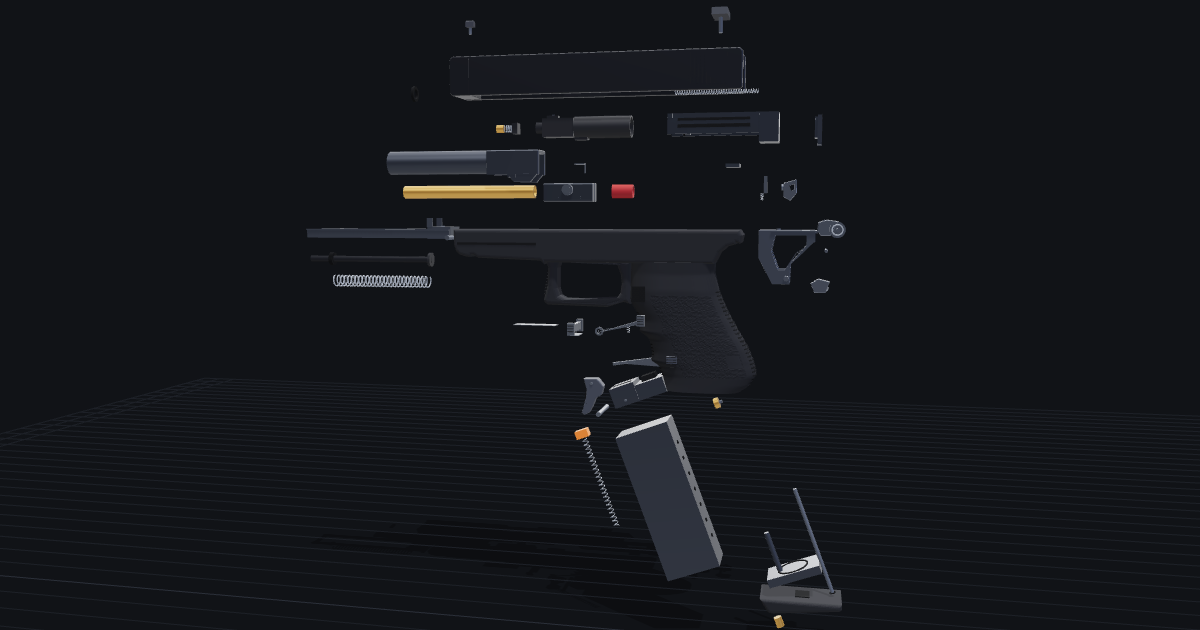
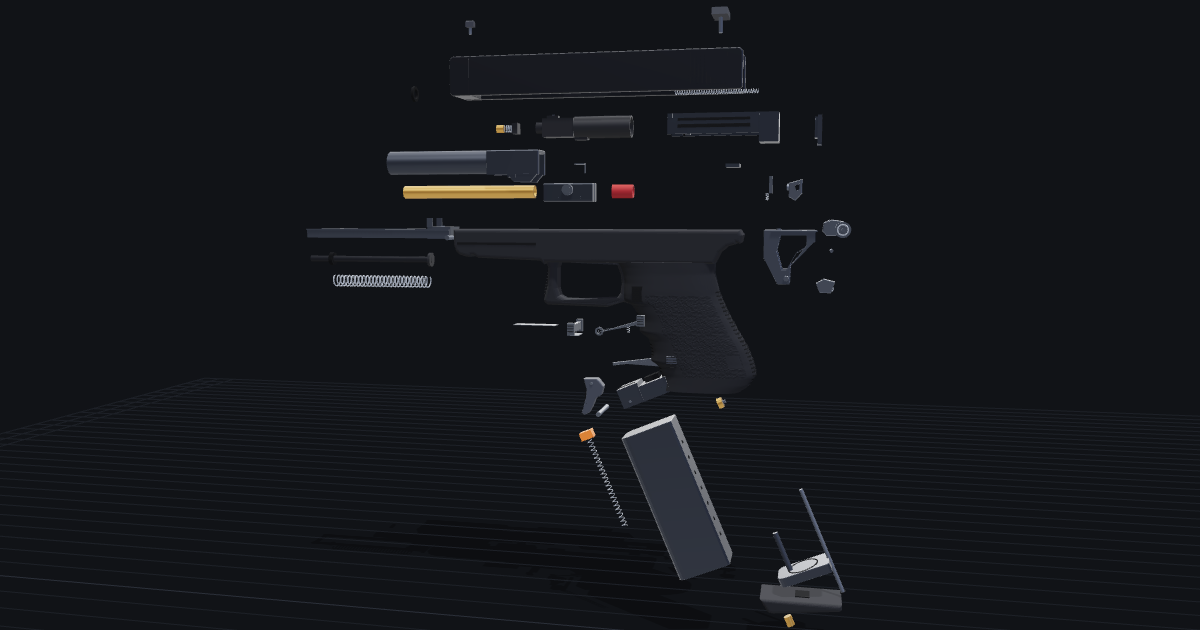
G19 magazine fits inside the new grip
The magazine showed through the finger-groove hollows and the narrower front of the lofted grip. Checked against the grip sections numerically, then: the mag leans back 23 degrees like the backstrap (was 20.7) and sits 2mm further back, its body is a rounded-front section like the Glock mag (33.2 by 22.4mm), and the grip's front edge now runs up behind the trigger guard opening, where it forms the magwell front wall, with the grip top widened to 29mm. The hammer group moves back 3mm to keep clear of the outlet valve. Front-strap clearance is now 3mm or more.

diff --git a/g19/index.html b/g19/index.html
@@ -494,9 +494,12 @@ const PORT0 = BREECH, PORT1 = BREECH + 28;   // ejection port over the barrel ho
 
 // magazine: built upright in its own frame (top rear corner at the origin side, axis along -y), then leaned back to the
 // grip angle and dropped into the frame. The photo puts the base plate centre at x -69, y -114.
-const MAG_A = 20.7 * D2R;
-const MD = 16.6, MW = 11.2;    // half depth and half width: G19 mag 33.2 x 22.9mm (holster maker's calipers); 22.4 here so it clears the frame walls
-const MAG_PIV = [-46 + MD * Math.cos(MAG_A), -11 - MD * Math.sin(MAG_A)];   // keeps the top rear corner at x -46, y -11
+const MAG_A = 23 * D2R;        // leaned back like the backstrap (22.7 deg in the photo)
+const MD = 16.3, MW = 10.9;    // half depth and half width before the 0.3mm rounded edge: 33.2 x 22.4mm, against 33.2 x 22.9 for the G19 mag (holster maker's calipers), so it clears the grip walls
+const MAG_PIV = [-48 + MD * Math.cos(MAG_A), -11 - MD * Math.sin(MAG_A)];   // top rear corner at x -48, y -11
+// mag body section (x front to back, z across): square at the back, front corners rounded like the Glock mag; extruded along y
+const magSec = (d, w, r) => [[-d + 1, -w], [d - r, -w], ...Array.from({ length: 5 }, (_, i) => { const t = -Math.PI / 2 + i / 4 * Math.PI / 2; return [d - r + r * Math.cos(t), r * Math.sin(t) - w + r]; }).slice(1), [d, w - r], ...Array.from({ length: 5 }, (_, i) => { const t = i / 4 * Math.PI / 2; return [d - r + r * Math.cos(t), w - r + r * Math.sin(t)]; }).slice(1), [-d + 1, w], [-d, w - 1], [-d, -w + 1]];
+const magExt = (d, w, r, y0, y1) => prof(magSec(d, w, r), y1 - y0, 0.3).rotateX(Math.PI / 2).translate(0, (y0 + y1) / 2, 0);
 const magT = g => g.rotateZ(-MAG_A).translate(MAG_PIV[0], MAG_PIV[1], 0);
 
 // ================= SLIDE =================
@@ -642,19 +645,20 @@ part('frame', 'Frame', 'frm', ['G-01'], [0, 0, 0],
       [684, 380], [677, 390], [658, 372], [335, 361], [313, 347], [302, 348], [296, 357], [272, 355], [237, 346], [220, 327], [211, 301]]);
     const guardO = P([[650, 368], [1104, 372], [1104, 560], [1100, 584], [1066, 574], [983, 601], [681, 594], [665, 585], [661, 569], [680, 498], [684, 411], [677, 390]]);
     const guardH = P([[745, 377], [1000, 380], [1035, 395], [1052, 440], [1057, 480], [1050, 530], [1030, 560], [1000, 567], [770, 562], [742, 547], [732, 510], [732, 410]]);
-    const grip = P([[1100, 372], [1514, 373], [1512, 428], [1537, 529], [1577, 620], [1600, 660], [1625, 705], [1650, 745], [1675, 790], [1700, 850], [1712, 890], [1718, 921], [1686, 970], [1641, 1001],
-      [1253, 1001], [1259, 930], [1250, 915], [1244, 890], [1225, 875], [1203, 860], [1207, 814], [1203, 800], [1198, 775], [1190, 752], [1170, 735], [1145, 719], [1148, 690], [1150, 665], [1145, 645], [1132, 628], [1106, 586], [1095, 560]]);
+    const grip = P([[1030, 372], [1514, 373], [1512, 428], [1537, 529], [1577, 620], [1600, 660], [1625, 705], [1650, 745], [1675, 790], [1700, 850], [1712, 890], [1718, 921], [1686, 970], [1641, 1001],
+      [1253, 1001], [1259, 930], [1250, 915], [1244, 890], [1225, 875], [1203, 860], [1207, 814], [1203, 800], [1198, 775], [1190, 752], [1170, 735], [1145, 719], [1148, 690], [1150, 665], [1145, 645], [1132, 628], [1106, 586], [1080, 578], [1064, 560], [1062, 530], [1066, 480], [1060, 440], [1045, 395], [1030, 380]]);
     // grip: horizontal sections lofted down the traced outline (front and back edge per level), rounded-rectangle sections
-    // narrowing at the front. Width: 27 at the top, waisted to 26.5 at the Gen3 thumb-rest scallop, 30 at the texture panel
+    // narrowing at the front. The front edge runs up behind the trigger guard opening, where the grip forms the magwell's front
+    // wall. Width: 29 at the top, waisted to 28.5 at the Gen3 thumb-rest scallop, 30 at the texture panel
     // (Gen3 grip width per GlockTalk), 28.5 at the bottom.
     const span = y => { const xs = []; for (let k = 0; k < grip.length; k++) { const [x0, y0] = grip[k], [x1, y1] = grip[(k + 1) % grip.length];
       if ((y0 - y) * (y1 - y) <= 0 && y0 !== y1) xs.push(x0 + (x1 - x0) * (y - y0) / (y1 - y0)); } return [Math.max(...xs), Math.min(...xs)]; };
-    const W = [[-28, 27], [-36, 26.5], [-46, 29.5], [-70, 30], [-95, 29.5], [-106, 28.5]];
-    const wAt = y => { for (let k = 0; k < W.length - 1; k++) if (y <= W[k][0] && y >= W[k + 1][0]) return W[k][1] + (W[k + 1][1] - W[k][1]) * (y - W[k][0]) / (W[k + 1][0] - W[k][0]); return y > -28 ? 27 : 28.5; };
+    const W = [[-28, 29], [-36, 28.5], [-46, 29.5], [-70, 30], [-95, 29.5], [-106, 28.5]];
+    const wAt = y => { for (let k = 0; k < W.length - 1; k++) if (y <= W[k][0] && y >= W[k + 1][0]) return W[k][1] + (W[k + 1][1] - W[k][1]) * (y - W[k][0]) / (W[k + 1][0] - W[k][0]); return y > -28 ? 29 : 28.5; };
     const GT = Y(374), GB = Y(1001) + 0.05, levels = [];
     for (let y = GT; y > GB; y -= 1.6) { const [xf, xb] = span(y); levels.push({ y, xf, xb, w: wAt(y) }); }
     { const [xf, xb] = span(GB); levels.push({ y: GB, xf, xb, w: wAt(GB) }); }
-    const LO = { n: 3.2, frontTaper: 0.62 };
+    const LO = { n: 3.2, frontTaper: 0.8 };
     const out = [[profR(upper, 24, 2), 'frame'], [profR(guardO, 12, 2.5, [guardH]), 'frame'], [loft(levels, { ...LO, seg: 56, step: 0.8 }), 'frame']];
     const patch = (t0, t1, y0, y1, lift, mat, step = 0.8) => out.push([loftPatch(levels, { ...LO, t0: t0 * Math.PI, t1: t1 * Math.PI, y0, y1, lift, step, cols: 20, uvScale: 0.09 }), mat]);
     // Gen3 stippled side panels (raised, both sides) with the plain logo square near the bottom rear
@@ -731,14 +735,14 @@ part('triggerPin', 'Trigger pin', 'trg', ['G-05'], [0, -100, 0],
 
 part('triggerBar', 'Trigger bar + spring', 'trg', ['G-18', 'G-17'], [0, -62, 0],
   'Trigger bar G-18 runs back along the right side from the trigger to the hammer housing, where it trips the sear. Spring G-17 returns it.',
-  [[prof([[X(1000), Y(380)], [-54, -23.5], [-56, -26], [-55, -31], [-57, -32], [-58, -26.5], [-56, -24.6], [X(1000), Y(392)]], 1.2, 0.2).translate(0, 0, 5.4), 'steel'],
+  [[prof([[X(1000), Y(380)], [-57, -23.5], [-59, -26], [-58, -31], [-60, -32], [-61, -26.5], [-59, -24.6], [X(1000), Y(392)]], 1.2, 0.2).translate(0, 0, 5.4), 'steel'],
    [spring(0.9, 0.2, 5, 5, 'y', -40, -29, 5.4), 'spring']]);
 
-const HH = [[-55, FT], [-86.5, FT], [-86.5, -16.5], [-82.5, -19.5], [-76, -23.5], [-73, -29], [-72.6, -41], [-63, -41], [-55, -26]];
+const HH = [[-58, FT], [-86.5, FT], [-86.5, -16.5], [-82.5, -19.5], [-76, -23.5], [-73, -29], [-72.6, -41], [-66, -41], [-58, -26]];
 part('hammerHousing', 'Hammer housing + screw, rear pin', 'trg', ['G-26', 'G-25', 'G-07'], [-45, 0, 0],
   'Metal hammer (fire control) housing in the rear of the frame. Carries the rear slide rails and holds the hammer, sear and valve knocker. Screw G-25 from above; rear frame pin G-07 (Gen3 and Gen4/5 pins differ).',
-  [...[1, -1].map(sd => [zAt(prof(HH, 1.4, 0.2, [[[-82, -13], [-64, -13], [-62, -22], [-66, -33], [-70, -33], [-76, -26], [-82, -19]]]), sd * 7.6), 'zinc']),
-   [bx(-88, -60, FT - 1.6, FT, -7.6, 7.6), 'zinc'],
+  [...[1, -1].map(sd => [zAt(prof(HH, 1.4, 0.2, [[[-82, -13], [-67, -13], [-65, -22], [-68, -33], [-71, -33], [-77, -26], [-82, -19]]]), sd * 7.6), 'zinc']),
+   [bx(-86.5, -63, FT - 1.6, FT, -7.6, 7.6), 'zinc'],
    ...[1, -1].map(sd => [bx(-88, -62, FT - 0.8, FT, sd * 9.4 - 1, sd * 9.4 + 1), 'zinc']),
    [cyl(1.2, 4, 'y', -66, FT - 1, 0, 10), 'steel'],
    [cyl(1.5, 26, 'z', X(1483), Y(445), 0, 12), 'steel']]);
@@ -749,30 +753,30 @@ part('hammer', 'Hammer + roller, spring, pins', 'trg', ['G-20', 'G-21', 'G-22', 
    [prof([[-72, -13.4], [-66, -12.6], [-61.6, -14], [-61, -18.5], [-63, -21], [-68, -21]], 7, 0.4), 'steel'],
    [cyl(1.3, 7.6, 'z', -64.5, -13.6, 0, 10), 'steel'],
    [torus(3, 0.4, 'z', -72, -18, 4.4), 'spring'], [torus(3, 0.4, 'z', -72, -18, -4.4), 'spring'],
-   [cyl(1, 16, 'z', -72, -18, 0, 8), 'steel'], [cyl(1, 16, 'z', -66, -30, 0, 8), 'steel']]);
+   [cyl(1, 16, 'z', -72, -18, 0, 8), 'steel'], [cyl(1, 16, 'z', -66, -30, 0, 8), 'steel']], { dx: -3 });
 
 part('sear', 'Hammer sear + spring', 'trg', ['G-23', 'G-24'], [-72, -14, 0],
   'Holds the hammer back until the trigger bar trips it; reset spring G-24.',
-  [[prof([[-68, -26], [-62, -24.5], [-58, -27], [-60, -32], [-66, -32]], 4, 0.3), 'steel'], [torus(1.6, 0.3, 'z', -66, -30, 2.5), 'spring']]);
+  [[prof([[-68, -26], [-62, -24.5], [-58, -27], [-60, -32], [-66, -32]], 4, 0.3), 'steel'], [torus(1.6, 0.3, 'z', -66, -30, 2.5), 'spring']], { dx: -3 });
 
 part('knocker', 'Valve knocker', 'trg', ['G-19'], [-62, 30, 0],
   'Valve knocker (shops also call it the valve striker or firing pin): a triangular plate with a slot, pivoting in the front of the hammer housing, with a round steel face. The hammer hits its back and the face strikes the outlet valve on the back of the magazine.',
   [[prof([[-58.5, -11.5], [-51.5, -13.5], [-51.5, -21], [-55, -23], [-58.5, -19]], 4, 0.3, [[[-57.2, -14], [-54.5, -14.8], [-55.5, -17.6], [-57.2, -17]]]), 'steel'],
-   [cyl(1.9, 1.4, 'x', -50.8, -15.6, 0, 16), 'steel']]);
+   [cyl(1.9, 1.4, 'x', -50.8, -15.6, 0, 16), 'steel']], { dx: -3 });
 
 part('popupSear', 'Valve knocker pop-up sear + spring', 'trg', ['G-27', 'G-28'], [-45, 30, 0],
   'Spring-loaded sear that pops up into the slide and blocks the knocker until the slide is back in battery, so the gun cannot vent gas with the slide open.',
-  [[bx(-59, -57, -19, FT + 1.2, -1, 1), 'steel'], [spring(0.8, 0.2, 4, 4, 'y', -56, -23, 0), 'spring']]);
+  [[bx(-59, -57, -19, FT + 1.2, -1, 1), 'steel'], [spring(0.8, 0.2, 4, 4, 'y', -56, -23, 0), 'spring']], { dx: -3 });
 
 // ================= MAGAZINE =================
 part('magBody', 'Magazine shell', 'mag', ['G-59'], [0, -108, 0],
   'Metal gas magazine body: the shell is the gas reservoir and carries the BB channel. 23 BBs per WE (the shared G17/G19 manual says 25, the G17 figure). Witness holes on the back, like the firearm mag.',
-  [[magT(bx(-MD, MD, -97, -5, -MW, MW)), 'dark'],
+  [[magT(magExt(MD, MW, 5, -97, -5)), 'dark'],
    ...[-20, -30, -40, -50, -60, -70, -80].flatMap(y => [[magT(cyl(1.1, 1, 'x', -MD - 0.2, y, -2.5, 10)), 'black']])], { shell: true });
 
 part('magLips', 'Feed lips + pin, gas route', 'mag', ['G-62', 'G-61', 'G-63'], [0, -90, 0],
   'Feed lips block G-62: the whole top cap of the mag, with the BB lips at the front and a window at the rear for the rubber gas route G-63, which seals against the bottom of the loading nozzle. Held by cross pin G-61.',
-  [[magT(bx(1, MD, -5, 7, -MW + 1, MW - 1)), 'dark'], [magT(bx(-MD, 1, -5, 4.5, -MW + 1, MW - 1)), 'dark'],
+  [[magT(bx(1, MD - 2, -5, 7, -MW + 1.5, MW - 1.5)), 'dark'], [magT(bx(-MD, 1, -5, 4.5, -MW + 1, MW - 1)), 'dark'],
    [magT(bx(-12, -3, 4.5, 7.6, -4, 4)), 'black'], [magT(bx(4, MD - 1, 6.2, 7.1, -1.6, 1.6)), 'black'],
    [magT(cyl(0.8, 2 * MW - 1.6, 'z', 9, -2, 0, 8)), 'steel']]);
 
@@ -786,7 +790,7 @@ part('follower', 'Follower + spring', 'mag', ['G-64', 'G-65'], [32, -108, 0],
 
 part('magBase', 'Base cap + O-ring', 'mag', ['G-70', 'G-69'], [-60, -108, 0],
   'Base cap that closes the reservoir from below, sealed by O-ring G-69; the tube on it guides the follower spring.',
-  [[magT(bx(-MD + 0.6, MD - 0.6, -97, -92, -MW + 0.6, MW - 0.6)), 'dark'], [magT(cyl(1.6, 25, 'y', 8, -80, 0, 12)), 'dark'],
+  [[magT(magExt(MD - 0.6, MW - 0.6, 4.4, -97, -92)), 'dark'], [magT(cyl(1.6, 25, 'y', 8, -80, 0, 12)), 'dark'],
    [magT(torus(9, 0.6, 'y', 0, -92, 0)), 'black']]);
 
 part('fillValve', 'Fill valve', 'mag', ['G-68'], [-45, -140, 0],
